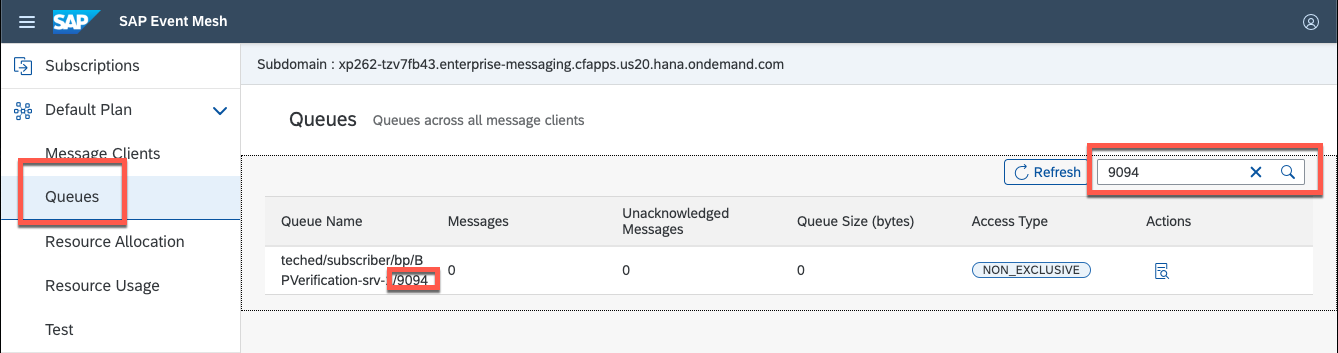
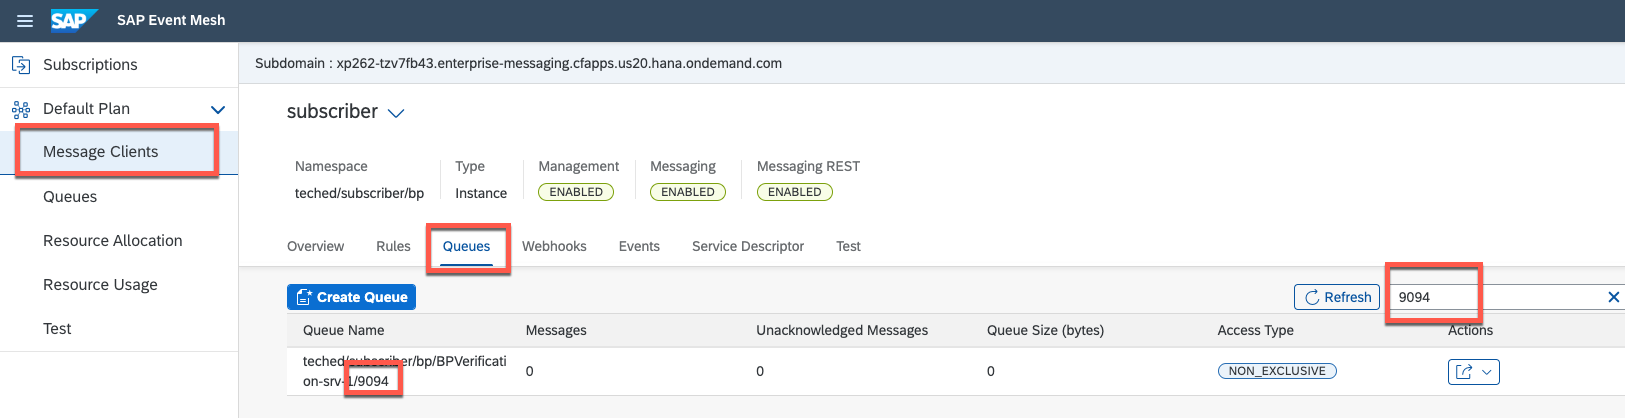
event mesh changes

diff --git a/exercises/eventmesh/README.md b/exercises/eventmesh/README.md
@@ -8,7 +8,9 @@ Event-Driven architectures usually consists of three components:
 - **An event broker:** In this case the SAP Event Mesh service on SAP BTP
 - **An event consumer:** The CAP (SAP Cloud Application Programming Model) Node.js application deployed to SAP BTP, Cloud Foundry runtime
 
-Let's have a look at your extension application what it all looks like in action. 
+If you want to learn more about the general concepts of SAP Event Mesh: 
+
+[Learn more about the general messaging concepts of SAP Event Mesh on developers.sap.com](https://developers.sap.com/tutorials/cp-enterprisemessaging-learn-messaging-concepts.html)
 
 ## Exercise 1.1 Get to know the SAP Event Mesh management dashboard
 
@@ -20,21 +22,112 @@ SAP Event Mesh is a fully managed service on SAP BTP and offers a management das
 
 ## Exercise 1.2 Check out the queues in the SAP Event Mesh management dashboard
 
-1. Each student's CAP applications have already been deployed by SAP TechEd instructors. CAP checks whether queues are required during application startup and, if so, whether they have already been created and connected to the application. In the service definition, for example, the CDS declarations state that a subscription to the topic *tfe/bpem/em/ce/sap/s4/beh/businesspartner/v1/BusinessPartner/Changed/v1* is required. If the Queue has not yet been created, CAP creates it with a combination  the application_id (that you noted down in the previous exercise) in its name.
+1. Each student's CAP applications have already been deployed by SAP TechEd instructors. CAP checks whether queues are required during application startup and, if so, whether they have already been created and connected to the application. In the service definition, for example, the [CDS declarations state that a subscription to the topic](https://github.com/SAP-samples/btp-build-resilient-apps/blob/extension/srv/external-catalog.cds) *tfe/bpem/em/ce/sap/s4/beh/businesspartner/v1/BusinessPartner/Created/v1* and *tfe/bpem/em/ce/sap/s4/beh/businesspartner/v1/BusinessPartner/Changed/v1* is required. If the Queue has not yet been created, CAP creates it with a combination of the application name and the application_id (that you noted down in the previous exercise) in its name. 
 
-👉 Navigate to **Queues** and filter for your application_id. 
+👉 Navigate to **Message Clients**. 
+👉 Select the **subscriber** message client. (a message client = a service instance of SAP Event Mesh)
+👉 Go to the **Queue** and filter for your application_id (Environment Variable of the CAP application) that you have identified in the previous exercise. 
 
-There should only be one queue listed now. This queue is linked to your CAP application and receives events from SAP S/4HANA - regardless of whether the other applications have processed those events or not, because all other applications have their own queue and only consume events from their own queue.
+    ![Search for your own queue](./images/student_queue.png)
 
-2. 
-👉 Leave this browser window or tab open, so you can observe in parallel how SAP Event Mesh behaves on certain actions you execute. 
+There should only be one queue listed now. This queue is linked to your CAP application and receives events from SAP S/4HANA - regardless of whether the other applications have processed those events or not, because all other applications have their own queue and only consume events from their own queue. Your queue should be empty because all business partners changes should have been processed by your CAP application. 
 
-Exercise 
+2. All queues are subscribed to a certain Topic. Topics are named logical channels to which messages are published. Subscribers in a topic-based system receive all messages published to the topics to which they have subscribed. All subscribers to a topic receive their own copy of the same message. 
 
-## Exercise 1.2 Check the status of your application using the SAP BTP Cockpit
-## Exercise 1.3 Create a new business partner in SAP S/4HANA using the SAPGUI
+👉 Select the **Actions** icon in the row of your queue (on the very right) and open **Queue subscriptions**.
+    ![Navigate to Queue subscriptions](./images/student_queue.png)
+
+👉 You will see that your Queue is subscribed to the Topics that have been defined in the [CAP application](https://github.com/SAP-samples/btp-build-resilient-apps/blob/extension/srv/external-catalog.cds). 
+    ![Display Queue Subscriptions](./images/display_subscriptions.png)
+
+> If you want to know more how you can configure that SAP S/4HANA pushes events to certain topics, have a look at the corresponding tutorial: [Configure event based communication between SAP S/4HANA and SAP Event Mesh](https://github.com/SAP-samples/btp-build-resilient-apps/tree/extension/tutorials/07-SetupEventMesh)
+
+3. 👉 You will need the overview of your Queue further on: Leave this browser window or tab open, so you can observe in parallel how SAP Event Mesh behaves on certain actions you execute. (Bookmarking is also an option) 
+
+## Exercise 1.3 Create a new business partner in SAP S/4HANA using the SAP GUI
+
+Now that you know roughly what your application looks like and how the individual artefacts are connected, it's time to see it all in action by creating a new business partner in the SAP S/4HANA system. 
+
+1. 👉 Open **SAP Logon** on your Desktop.
+2. 👉 Logon with the credentials that you have used already: 
+   * Client: 100
+   * User: S4H_0\<STUDENT> (**IMPORTANT:** \<STUDENT> is the student number on your desk. In case you have received *01*, please use S4H_001 as the user for the SAP S/4HANA sytem.)
+   * Password: LasVegas22!
+3. 👉 Open the menu item **Maintain Business Partner** or enter the transaction code **bp**. 
+4. 👉 Create a new **Person**. 
+5. 👉 Provide the following attributes:
+   - First name: Student
+   - Last name: \<STUDENT> (**Makes it easier to identify your specific business partner**)
+   - Street
+   - House number
+   - Postal Code
+   - City
+   - Country
+
+6. 👉 Finish the business partner creation via the **Save** icon. 
+   
+    ![Open SAP Event Mesh subscription](./images/businesspartner1_creation.png)
+
 ## Exercise 1.4 Observe the event consumption in SAP BTP Cockpit and SAP Event Mesh management dashboard
+
+The business partner has now been created in the SAP S/4HANA system. Asynchronously, the system has pushed an event to the SAP Event Mesh topic. All Queues subscribed to *tfe/bpem/em/ce/sap/s4/beh/businesspartner/v1/BusinessPartner/Created/v1* will receive a message with the ID of the business partner you have recently created. 
+
+1. Let's check if the SAP Event Mesh management dashboard shows a new message.  Since your CAP application is stopped, no messages should be taken from your Queue. 
+
+👉 **Refresh** the status of your Queue. There should be a new message or at least one, since other attendees in the same SAP S/4HANA system have most likely also created Business Partners that are published to the same SAP Event Mesh Topic. You will get the messages as well, since all Queues are subscribed to the same Topic.
+    ![New message in the queue](./images/new_message_queue.png)
+
+
+2. Let's see what the message contains to better understand how the extension application processes the message. 
+
+👉 Navigate to **Test** in the side menu. Open your particular queue in the **Consume Messages section** (filter for **srv-\<STUDENT>/** or your application_id). 
+
+You should get the same information about your Queue as you had it in the recent view.
+
+3. 👉 Hit **Consume Message** to take the first message that has been sent from the Queue. (*Consuming* means that this message is permanently removed from the Queue.)
+    ![New message in the queue](./images/test_queue.png)
+
+
+This is the message:
+
+```json
+{"type":"sap.s4.beh.businesspartner.v1.BusinessPartner.Created.v1","specversion":"1.0","source":"tfe/bp/em","id":"YEW9iQHNHu2S3sv2ubtlkQ==","time":"2022-10-13T12:55:54Z","datacontenttype":"application/json","data":{"BusinessPartner":"1000681"}}
+```
+> The format of the events follows the [CloudEvents specification](https://github.com/cloudevents/spec)
+
+You should see the header (everything except the *data* properties) and payload (the *data* property) of the message. It's not necessarily containing your business partner, since the consumption of messages is following the [FIFO](https://en.wikipedia.org/wiki/FIFO_(computing_and_electronics)) (first in first out) principle. You have just consumed the first business partner that has been created. As you can see, the payload only contains the ID of the object that has been affected. This type of events are called **Notification Events**. The format of the events is defined in 
+
+> *"Notification events are typically as small as possible and contain only the absolutely required information. The idea behind this type of event is that consumers are informed of a change and can then decide whether they care about this change or not. If the change isn’t relevant for the consumer, the consumer ignores the event completely. If the change is relevant for the consumer, the consumer will follow up by requesting additional data and executing on this data. Notification events have a number of advantages and have certain disadvantages as well:*
+>
+> - *They are typically very small so a lot of notifications can be sent.* 
+>
+> - *They contain only the absolutely required data so data access can be controlled in a better way.*
+>
+> - *An additional step is needed when following up on an event to access all required data.*
+>
+> - *Depending on the number of events that are followed up on, they can be highly efficient or highly inefficient."*
+>
+> **Source:** Karsten Strothmann, SAP ([Questions from SAP Community Call: Discover Event-Driven Integration with SAP](https://blogs.sap.com/2022/02/25/questions-for-sap-community-call-discover-event-driven-integrations-with-sap/))
+
+In short: 
+
+1) The SAP CAP backend application would consume the message
+2) Take the ID of the business 
+3) Call the OData API for business partners of the SAP S/4HANA system (using a Destination on SAP BTP, no matter if the system is connected via SAP Cloud Connector or SAP Private Link - more about that in a subsequent exercise)
+4) Process the business partner data and save it in the HDI Container on SAP HANA Cloud. 
+
+
 ## Exercise 1.4 Start your application and the event consumption 
+
+Now that you have seen what data the CAP application will actually receive once it consumes a message, let's give the CAP application a nudge to actually do its work. The messages in the queues are waiting. 
+
+
+
+You might have probably seen the benefits of decoupling the SAP S/4HANA system and the CAP application here.
+
+**Resiliency**: The CAP application was done, the SAP S/4HANA system wasn't aware and doesn't have to be aware of it. Still, the processing can continue once the application is back online. 
+**Scalability**: The SAP S/4HANA system doesn't have any idea how many consumers (CAP application of consumers in this case) are connected and doesn't have to be aware of how many consumers are connected.
+
 ## Exercise 1.5 Check the SAP Fiori application to find your business partner
 
 ## Summary

diff --git a/exercises/ex0/README.md b/exercises/ex0/README.md
@@ -17,14 +17,14 @@ The _source system_ so to speak for our extension application is an SAP S/4HANA 
 3. Enter the following credentials: 
 
 * Client: 100
-* User: S4H_0XX (**IMPORTANT:** XX is the UserID on your desk. In case 01 is your UserID, please use S4H_001 as the user for the SAP S/4HANA sytem.)
+* User: S4H_0\<STUDENT> (**IMPORTANT:** \<STUDENT> is the student number on your desk. In case you have received *01*, please use S4H_001 as the user for the SAP S/4HANA sytem.)
 * Password: LasVegas22!
 
-4. Enter **bp** as the transaction code and hit **Enter** to open the transaction. Alternatively you can also you use double-click the entry in your user menu. 
+1. Enter **bp** as the transaction code and hit **Enter** to open the transaction. Alternatively you can also double-click the entry in your user menu. 
 
 ![How to enter the Business Partner transaction](./images/bp_transaction_code.png)
 
-You should see the transaction to maintain business partners: 
+You will see the transaction to maintain business partners: 
 
 ![Business Partner maintenance transaction](./images/maintain_bp.png)
 
